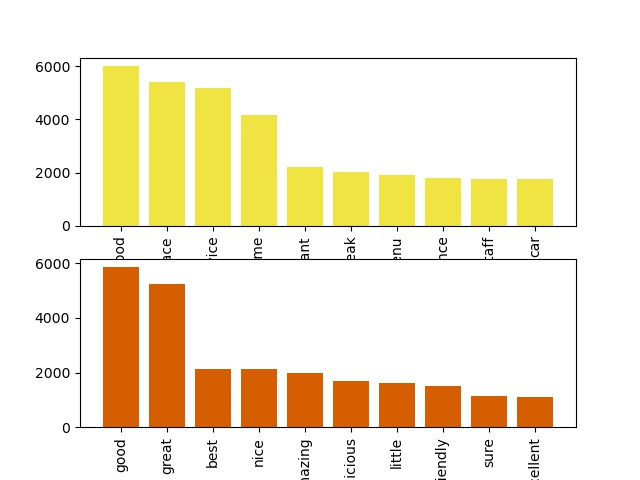
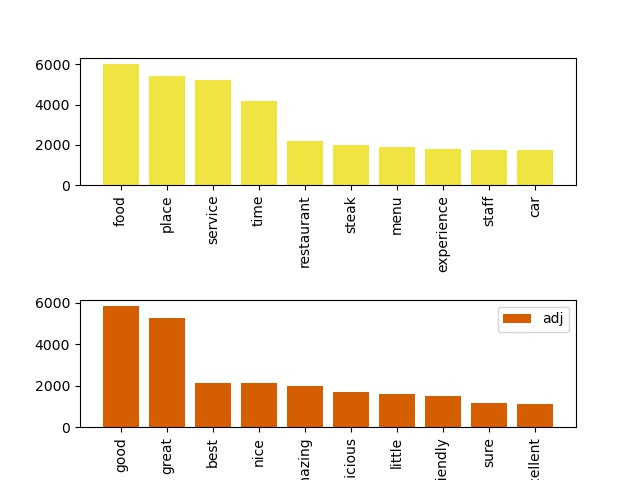
plot fix

diff --git a/pos_tagging.py b/pos_tagging.py
@@ -81,10 +81,11 @@ def draw_top10_freq_words(noun_words_freq, adj_words_freq):
     for word, c in noun_words_freq:
         words.append(word)
         count.append(c)
-    plt.figure()
+    plt.figure(figsize=(10, 20))
     plt.subplot(211)
     plt.bar(words, count, color="#F0E442", label='noun')
     plt.xticks(rotation=90)
+    plt.legend()
     plt.subplot(212)
     words.clear()
     count.clear()
